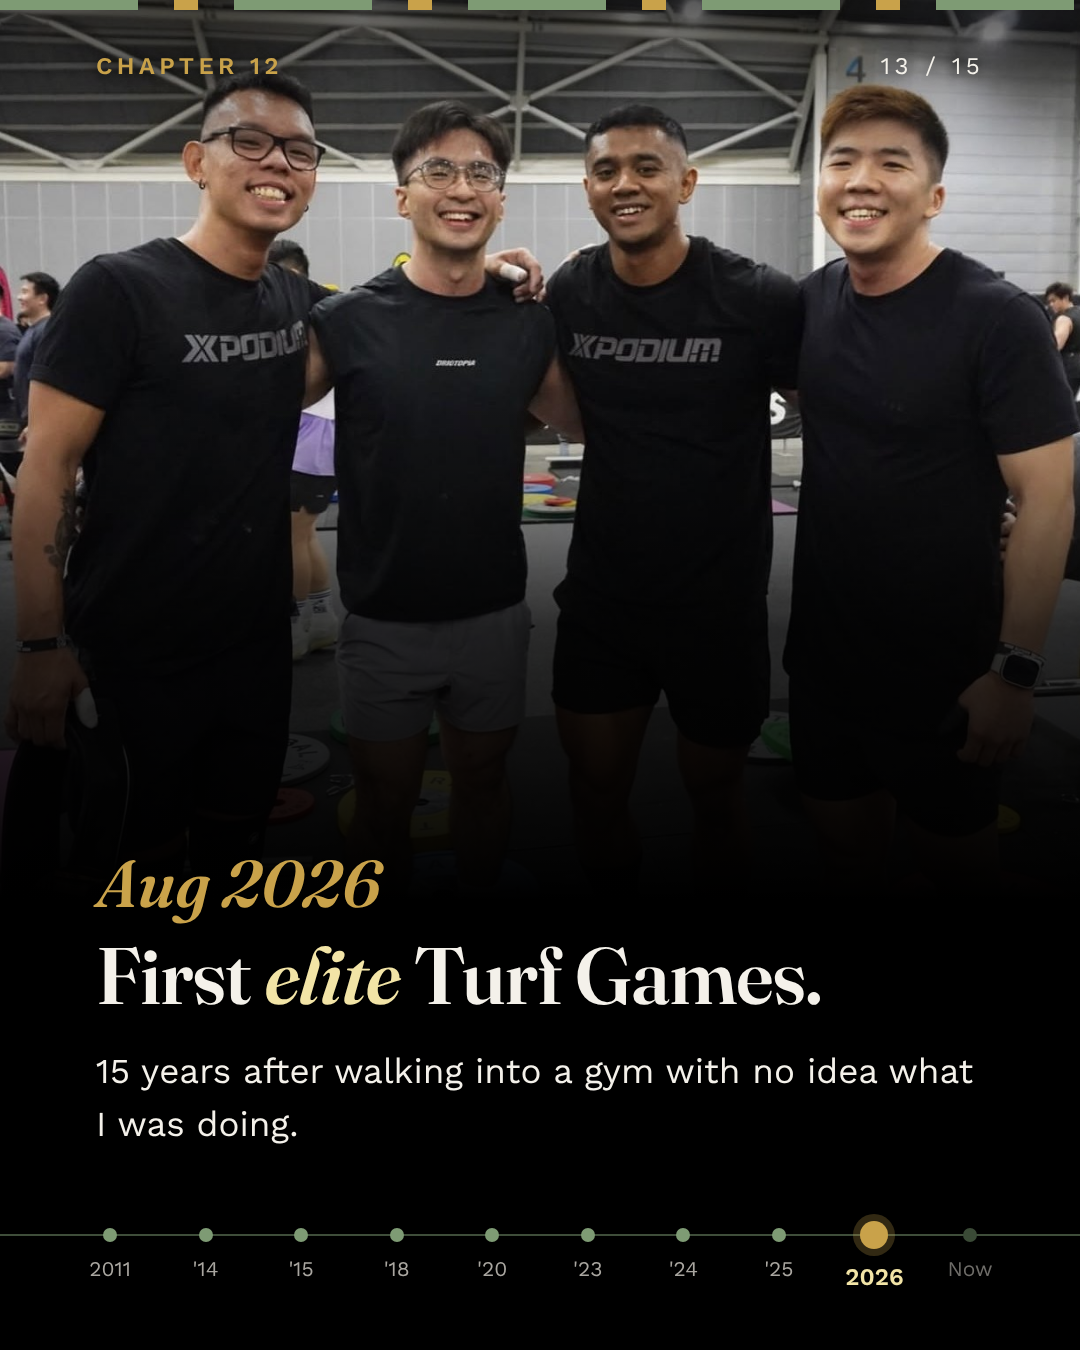
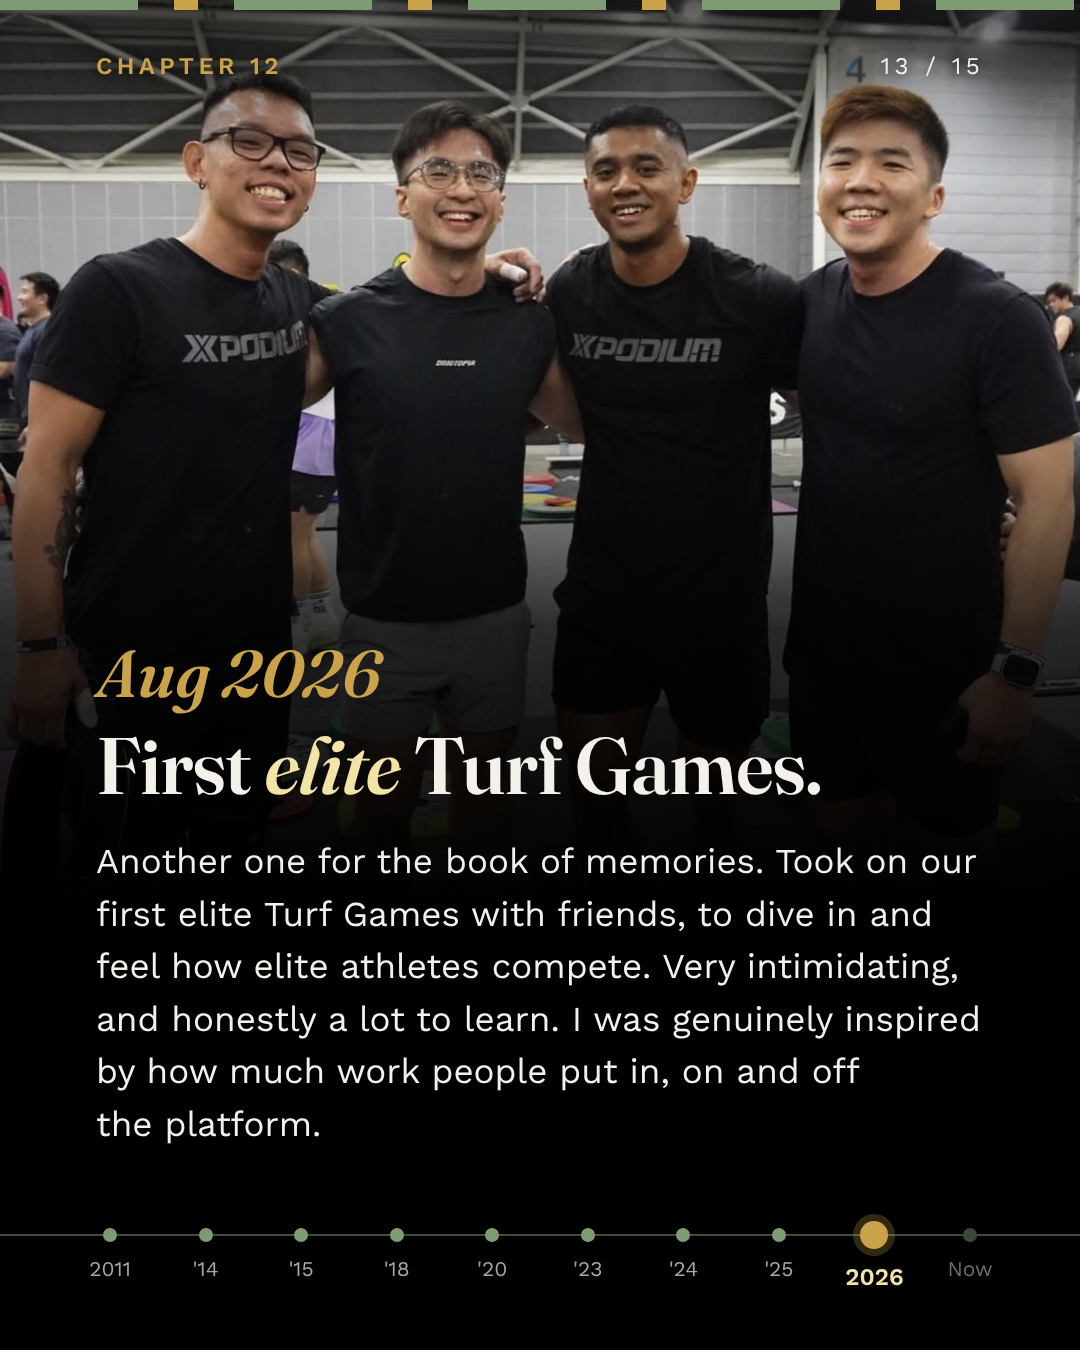
Journey carousel: revise elite Turf Games slide copy
Claude-Session: https://claude.ai/code/session_01QNxkYZ2h6udsyHuSyBd6uT

Changed region(s): [[0.0917, 0.6222, 0.9167, 0.84], [0.0917, 0.4667, 0.3667, 0.5911], [0.3972, 0.5289, 0.7639, 0.5911]]

diff --git a/instagram/fitness-journey.html b/instagram/fitness-journey.html
@@ -257,7 +257,7 @@
     <div class="top"><span class="tag" contenteditable>Chapter 12</span><span class="count"></span></div>
     <div class="when"><span class="year" contenteditable>Aug 2026</span></div>
     <h2 contenteditable>First <em>elite</em> Turf Games.</h2>
-    <p contenteditable>15 years after walking into a gym with no idea what I was doing.</p>
+    <p contenteditable>Another one for the book of memories. Took on our first elite Turf Games with friends, to dive in and feel how elite athletes compete. Very intimidating, and honestly a lot to learn. I was genuinely inspired by how much work people put in, on and off the platform.</p>
     <div class="timeline"></div>
   </section>
 
